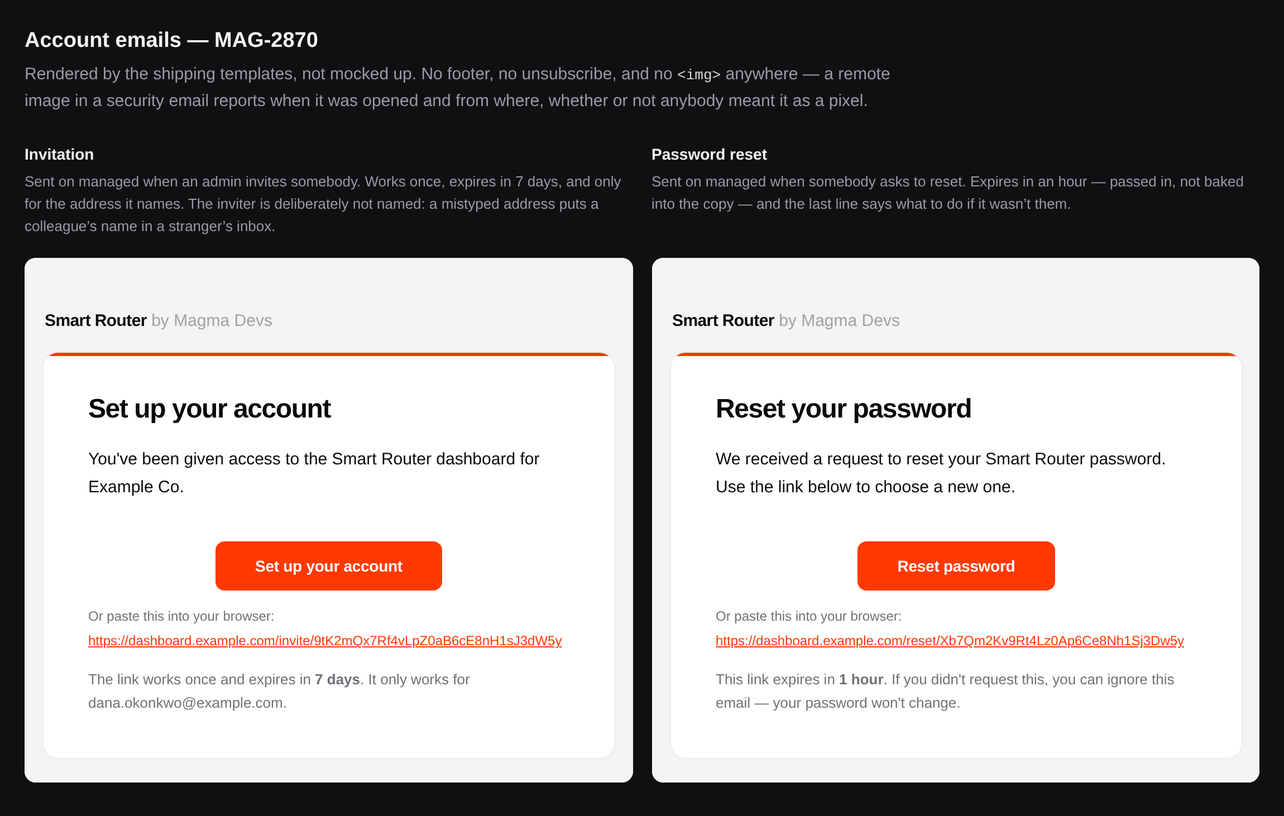
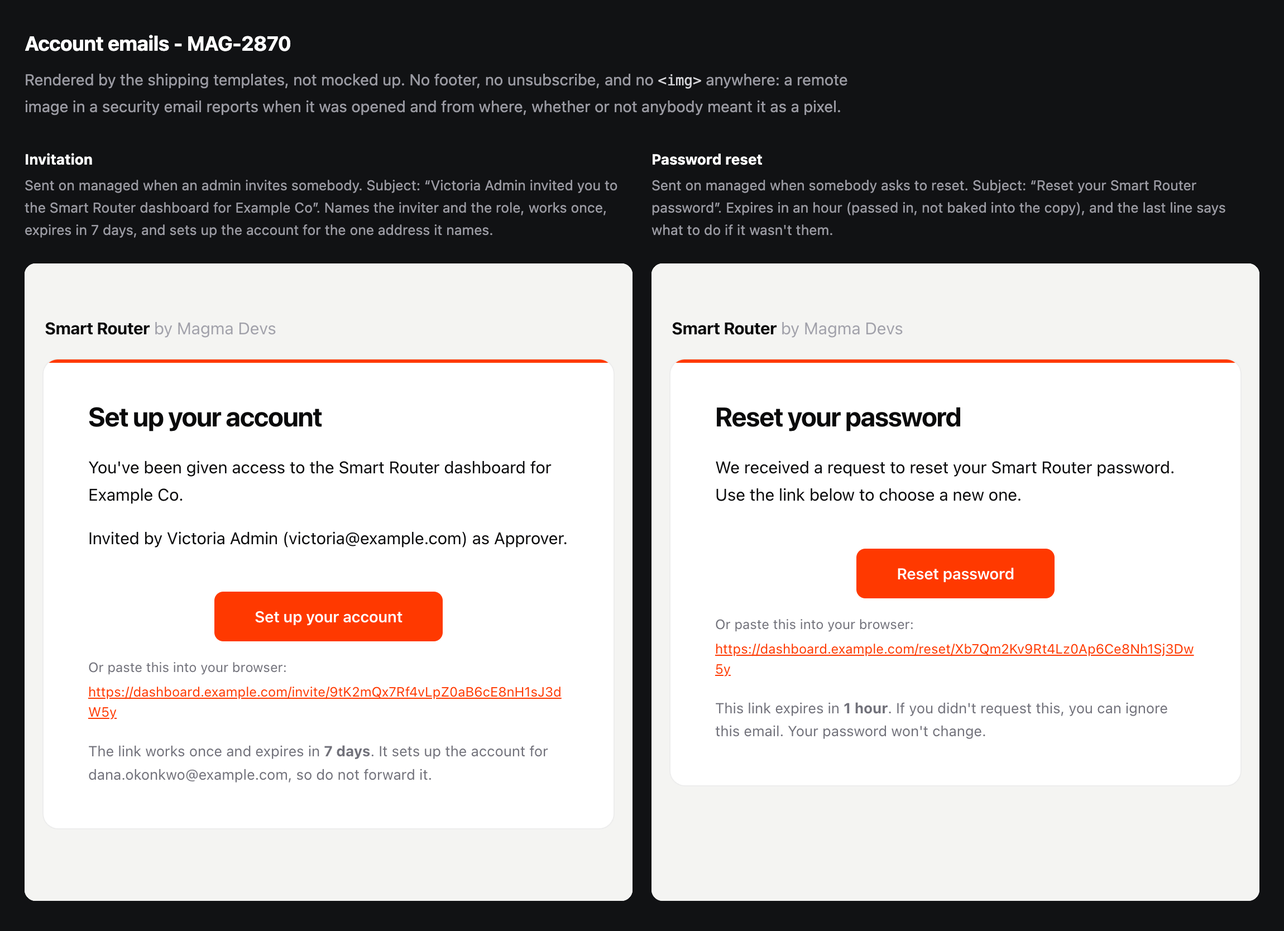
docs(accounts): describe the audit page, required 2FA and accounts on deployments (MAG-5351)
AUTH.md, MAG-2729-REQUIREMENTS.md, MAG-2729-MANUAL-CHECKS.md,
ACCOUNTS-DESIGN.md and README.md said there is no audit viewer, that 2FA
has not shipped and that nothing deployed runs with accounts on. They
now point at the Audit log page, say 2FA is required with accounts on
(the 2FA column reads Yes/No), and say the fleet's tenant template turns
accounts on for every new managed deployment. The up-auth commands carry
the TOTP and internal secrets the api needs to boot, the email rules and
quoted copy match the templates, and the account-emails screenshot is
re-rendered from them.

diff --git a/docs/AUTH.md b/docs/AUTH.md
@@ -87,6 +87,12 @@ The web needs this at **runtime**, not build time — `NEXT_PUBLIC_*` is baked
 into the bundle and one published image has to serve both shapes — so it
 comes through `GET /api/config` alongside `DASHBOARD_API_URL`.
 
+The Helm chart renders `AUTH_MODE` and `DEPLOYMENT_MODE` on both pods from
+its `dashboard.auth` block (`mode`, `deploymentMode`). The fleet's tenant template turns accounts on for
+every new managed deployment (`mode: enabled`, `deploymentMode: managed`),
+and with accounts on 2FA is required of everyone
+([Two-factor](#two-factor-totp)).
+
 ## First run (on-prem)
 
 A fresh install has no accounts, so there is nobody to sign in as. The
@@ -398,7 +404,7 @@ names both people.
 | `EMAIL_REPLY_TO` | A monitored inbox, so a reply to a reset reaches somebody |
 | `EMAIL_CONFIGURATION_SET` | Keeps each environment's bounce reputation separate on a shared SES identity |
 | `SES_ENDPOINT` | Points at a local SES mock for development |
-| `CUSTOMER_NAME` | Appears in the invitation subject — an invite lands somewhere that has never heard of us, and the customer's own name is what stops it reading as spam |
+| `CUSTOMER_NAME` | Names the dashboard in every email, and in the invitation's subject ("{inviter} invited you to the Smart Router dashboard for {customer}"): an invite lands somewhere that has never heard of us, and the customer's own name is what stops it reading as spam. The fleet sets it to the tenant's name |
 
 ### Seeing the mail in development
 
@@ -500,7 +506,7 @@ mail transport` or `email failed, not delivered`).
 development not in a log line either. A rendered invitation contains a live
 token.
 
-<img src="./assets/account-emails.png" alt="The two account emails side by side, rendered by the shipping templates. Left: the invitation, subject &quot;You've been added to Example Co on Smart Router&quot;, headed &quot;Set up your account&quot;, with a Set up your account button, the same link repeated as selectable text beneath it, and a line reading &quot;The link works once and expires in 7 days. It only works for dana.okonkwo@example.com.&quot; Right: the password reset, subject &quot;Reset your Smart Router password&quot;, with a Reset password button, the link again as text, and &quot;This link expires in 1 hour. If you didn't request this, you can ignore this email — your password won't change.&quot; Neither has a footer, an unsubscribe link, or any image." width="820">
+<img src="./assets/account-emails.png" alt="The two account emails side by side, rendered by the shipping templates. Left: the invitation, subject &quot;Victoria Admin invited you to the Smart Router dashboard for Example Co&quot;, headed &quot;Set up your account&quot;, with the line &quot;Invited by Victoria Admin (victoria@example.com) as Approver.&quot;, a Set up your account button, the same link repeated as selectable text beneath it, and &quot;The link works once and expires in 7 days. It sets up the account for dana.okonkwo@example.com, so do not forward it.&quot; Right: the password reset, subject &quot;Reset your Smart Router password&quot;, with a Reset password button, the link again as text, and &quot;This link expires in 1 hour. If you didn't request this, you can ignore this email. Your password won't change.&quot; Neither has a footer, an unsubscribe link, or any image." width="820">
 
 ### The rules the copy follows
 
@@ -514,20 +520,25 @@ From the ticket, and each has a test:
   and **no `<img>` at all**: a remote image in a security email reports when it
   was opened and from where, whether or not anybody meant it as a tracking
   pixel. The wordmark is set in text.
-- **The invitation does not name the inviter.** It goes to an address nobody has
-  verified, so a mistyped one puts a colleague's name and address in a
-  stranger's inbox.
+- **The invitation names who sent it**: by name in the subject, and with their
+  address and the role it grants, by its label, in the body ("Invited by
+  Victoria Admin (victoria@example.com) as Read-only."). A resend names the
+  admin who resent it. Its last line says the link sets up the account for the
+  one address it names, so it is not forwarded.
 - **The reset says what to do if it wasn't you**, as the last line.
 - **The password-changed notice carries no link at all** — no button, no reset
   link, no sign-in link. A takeover notice with a button is one an attacker can
   copy and bait somebody into pressing. It says what to do in words, and its
-  last line says it never contains a link, so a copy that has one gives itself
-  away.
+  last line is "We never put a link in this notice. If a copy has one, don't
+  click it.", so a copy that has one gives itself away.
 - **A time reads one way in every email**: `Nov 11, 2026, 14:05 UTC` — the
   dashboard's date and 24-hour clock, with the zone written out. The dashboard
   shows the reader's own zone, which the browser reports; an email has no
   browser and an account stores no zone, so it gives UTC, the zone of the
   audit log. `emailTime` (`services/email-time.ts`) writes every one.
+- **US English, "2FA" as the feature's name, and no long dash** (an em or en
+  dash) in any subject, plain text or HTML part: a pause is " - " or two
+  sentences. `email-copy.test.ts` renders every email and checks all three.
 
 
 ### The reset password page
@@ -761,8 +772,12 @@ make dev-auth
 # sign in at http://localhost:3000/login as admin@example.com / admin1234
 # (override any of them: ADMIN_EMAIL=you@example.com make dev-auth)
 
-# prod-style — no seeded admin (the seed is refused under NODE_ENV=production):
-AUTH_SECRET=$(openssl rand -base64 32) make up-auth
+# prod-style — no seeded admin (the seed is refused under NODE_ENV=production);
+# the api refuses to boot without the last two:
+export AUTH_SECRET=$(openssl rand -base64 32) \
+  TOTP_ENCRYPTION_KEY=$(openssl rand -base64 32) \
+  INTERNAL_AUTH_SECRET=$(openssl rand -base64 32)
+make up-auth
 # open /login → it redirects to /setup; the setup token is in
 # `docker compose logs api` (or set SETUP_TOKEN, 16+ characters)
 
@@ -929,11 +944,14 @@ against an unknown address answers the same `401` a wrong password does.
 
 **9. Export.** Team → Export CSV. This is the artifact an auditor asks for
 first, and it is the whole member list, not the page you are looking at.
-Its `two_factor` column reads `yes` or `no`; a `no` is the table's "Not set
-up".
+The 2FA column reads **Not set up** in the table when someone has no
+authenticator yet, and the CSV's `two_factor` column reads `yes` or `no`. The
+dashboard is shut to someone without one until they set it up
+([`TWO-FACTOR.md`](./TWO-FACTOR.md)).
 
-**10. The audit log.** Every step above wrote a row. There is no viewer yet
-(MAG-2770), so read them directly:
+**10. The audit log.** Every step above wrote a row. Open **Audit log** in
+the sidebar: newest first, a detail sheet per row, and **Export CSV**
+([`AUDIT.md`](./AUDIT.md)). Or read the table itself:
 
 ```bash
 docker exec smart-router-dashboard-dev-postgres-1 \
@@ -963,8 +981,8 @@ make recover CMD="promote-admin  --email you@example.com"
 
 Shell access is the authorisation and these hand out nothing new — what
 they add is a `host.recovery` row per run, naming the command and the
-operator, so a recovery shows up in the log afterwards. The viewer is
-MAG-2770's and is not on this branch, so read it the way step 10 does:
+operator, so a recovery shows up in the log afterwards: on the **Audit log**
+page, filtered to the `recovery` group, or in the table:
 
 ```sql
 select occurred_at, actor_name, note from audit_events
@@ -1091,7 +1109,7 @@ Two consequences:
 
 - **An edited migration is never re-applied.** The hash is recorded but
   unused, so changing an already-applied file is a no-op on any database
-  that ran it. Fine while nothing is deployed; not a thing to rely on later.
+  that ran it. A change to the schema is always a new migration.
 - **A migration inserted *below* the high-water mark is skipped**, on any
   database that is already migrated. This is the one that bites, because
   parallel branches produce it naturally: two tickets each add a migration,
@@ -1112,11 +1130,10 @@ that exists, and boot fails) or is silently skipped.
 docker compose -f docker-compose.dev.yml --profile auth down -v
 ```
 
-Only developer machines are affected: nothing deployed sets
-`AUTH_MODE=enabled`, so no deployment has a `users` table, let alone a
-migration history. CI is unaffected too — every suite builds its database
-from empty, where the high-water mark does not exist and entries apply in
-array order regardless of their timestamps.
+Only a database that ran a build from those branches is affected. CI is
+not: every suite builds its database from empty, where the high-water mark
+does not exist and entries apply in array order regardless of their
+timestamps.
 
 > **Never change the `when` of a migration a database may already hold.** It
 > is the obvious repair and it trades a silent skip for a hard failure: on a

diff --git a/docs/MAG-2729-REQUIREMENTS.md b/docs/MAG-2729-REQUIREMENTS.md
@@ -1,15 +1,14 @@
 # MAG-2729 — requirement coverage
 
 Every line of [MAG-2729](https://magmadevs.atlassian.net/browse/MAG-2729) ("Dashboard v2 (1/4) —
-Accounts and team") against what is on the branch, so the ticket can be checked off rather than
+Accounts and team") against what implements it, so the ticket can be checked off rather than
 taken on trust.
 
 | | |
 |---|---|
-| As of | 27 Sep 2026, `feat/MAG-2870-account-emails` (#147), rebased onto `main` after #121 and #122 merged |
 | Parent epic | [MAG-2686](https://magmadevs.atlassian.net/browse/MAG-2686) — Dashboard v2, config change + SOC 2 |
 | Design | [`ACCOUNTS-DESIGN.md`](./ACCOUNTS-DESIGN.md) (#109) · operator guide [`AUTH.md`](./AUTH.md) |
-| Acceptance | **11/11** of the checks on the ticket pass — [§4](#4-the-acceptance-checks) |
+| Acceptance | **11/11** of the checks on the ticket pass — [§4](#4-the-acceptance-checks), run at `8594841` ([§8](#8-how-this-was-verified)) |
 
 ## Verdict
 
@@ -20,17 +19,23 @@ sibling tickets.
 deployment shapes — 11/11 managed, 10/10 on-prem, where the eleventh is managed-only. [§4](#4-the-acceptance-checks)
 has the list and how each is exercised.
 
-**Managed-mode delivery has landed too.** It belongs to
+**Managed-mode delivery** belongs to
 [MAG-2870](https://magmadevs.atlassian.net/browse/MAG-2870) — "Account emails and the reset password
 page", carved out of this ticket deliberately, _"so the copy and the screen have one owner rather
-than being buried in the accounts ticket"_ — and that ticket is implemented in
-[#147](https://github.com/Magma-Devs/smart-router-dashboard/pull/147), on this branch. So the
-managed rows below are now green rather than deferred: invitations and resets are emailed, over SES.
+than being buried in the accounts ticket"_ — implemented in
+[#147](https://github.com/Magma-Devs/smart-router-dashboard/pull/147): invitations and resets are
+emailed, over SES.
 
-What remains belongs to three sibling tickets: the shared-login cutover ([MAG-3002](https://magmadevs.atlassian.net/browse/MAG-3002)), cancelling a
-removed person's pending config changes (MAG-2731 owns that table), and the audit log's own viewer,
-filtering and export (MAG-2770). This ticket emits into MAG-2770's writer; it does not own the
-reading side.
+**The audit log and 2FA are built, by their own tickets.** This ticket emits into MAG-2770's writer;
+the **Audit log** page reads it, with filters and a CSV export, and a pull API serves a security
+team's tooling ([`AUDIT.md`](./AUDIT.md)). 2FA is MAG-2730's and is required of everyone once
+accounts are on ([`TWO-FACTOR.md`](./TWO-FACTOR.md)), so the members table's 2FA column reads Yes
+or No. The fleet's tenant template turns accounts on for every new managed deployment
+([`AUTH.md`](./AUTH.md#deployment-modes)).
+
+What remains belongs to two sibling tickets: the shared-login cutover
+([MAG-3002](https://magmadevs.atlassian.net/browse/MAG-3002)) and cancelling a removed person's
+pending config changes (MAG-2731 owns that table).
 
 Three places where the code disagreed with the ticket were found and fixed on the branch — see
 [§7](#7-mismatches-found-and-fixed). The third arrived after the audit rather than during it:
@@ -120,7 +125,7 @@ Seven pull requests, stacked. `#115` is MAG-2770's writer, merged in because sli
 | An invite can only create the account it was issued for (replaced "redeemable only by the address it was sent to", 26 Aug 2026) | ✅ | **Structural**: the account is created with the invitation's address. A password redemption supplies no address. A Google or GitHub redemption supplies the provider's verified one, because those stay as ways in (§1); it must equal the invited address, or the route answers 403 and names the address to use |
 | Single-use; 7 days managed, 24 hours on-prem | ✅ | Exactly as specified |
 | Pending tab with sent and expiry dates; resend and revoke | ✅ | Resend mints a new token and kills the old link. Expiry needs no sweeper — the first read that observes it stamps the row, so `invite.expired` fires once |
-| Members table: name, email, role, 2FA, last active, joined | ✅ | 2FA renders `—`, not "No" — it is MAG-2730's, and "No" would be true today and wrong the day it ships |
+| Members table: name, email, role, 2FA, last active, joined | ✅ | 2FA reads Yes or No, from whether the person has set up an authenticator (MAG-2730); a No is red |
 | Change role, remove | ✅ | |
 | Removal is a state change, not a row deletion | ✅ | Sessions die immediately, the name stays in the log permanently, the address can be invited again |
 | Removal needs no approval; a dialog naming the person is enough | ✅ | |
@@ -129,7 +134,8 @@ Seven pull requests, stacked. `#115` is MAG-2770's writer, merged in because sli
 
 ### 3 · Audit log
 
-The log itself is MAG-2770. This ticket emits into it. All sixteen events are in the typed catalog
+The log itself is MAG-2770, read on the **Audit log** page ([`AUDIT.md`](./AUDIT.md)). This ticket
+emits into it. All sixteen events are in the typed catalog
 **and** fire from a call site — checked separately, because being catalogued does not mean being
 emitted. The last to arrive was `password.reset_requested`, which fires from the managed `POST
 /auth/password/forgot` that [MAG-2870](https://magmadevs.atlassian.net/browse/MAG-2870) turned on.
@@ -159,7 +165,7 @@ rename cannot rewrite history.
 | 7 | A removed person's sessions die, **pending requests are cancelled**, history stays, email re-invitable | ◐ three of four; cancellation is MAG-2731's |
 | 8 | Demoting someone takes effect on their current session | ✅ |
 | 9 | The member list shows role and last active, and exports | ✅ |
-| 10 | Every event is a row in the log, and the log filters and exports safely | ✅ emission; filtering and export are MAG-2770's |
+| 10 | Every event is a row in the log, and the log filters and exports safely | ✅ emission here; the **Audit log** page filters and exports it (MAG-2770) |
 
 ---
 
@@ -225,10 +231,8 @@ to `/login` and type — but a script can. It waits past the boundary now, and s
 | | State | Owner |
 |---|---|---|
 | Pending config changes cancelled on removal | `onMemberDeactivated` is a documented empty seam | MAG-2731 |
-| Shared login disabled at cutover | Not this repo. Per deployment, and blocked on this ticket merging — named accounts have to exist before the shared one can go | [MAG-3002](https://magmadevs.atlassian.net/browse/MAG-3002) |
+| Shared login disabled at cutover | Not this repo. Per deployment: named accounts have to exist before the shared one can go | [MAG-3002](https://magmadevs.atlassian.net/browse/MAG-3002) |
 | ~~Managed "Forgot password?" link on `/login`~~ | **Built.** `/forgot-password`, linked from the sign-in page; on-prem it says there is no mail server and points at an administrator | — |
-| Audit viewer, filtering, export | Out of scope by ticket text | MAG-2770 |
-| 2FA column populated | Out of scope by ticket text | MAG-2730 |
 | AWS/SES setup so managed can actually send | The code ships in MAG-2870; the verified domain, sandbox exit, DNS records and chart env do not. On-prem is unaffected — it sends nothing by design | [MAG-3003](https://magmadevs.atlassian.net/browse/MAG-3003) |
 
 ---
@@ -276,16 +280,14 @@ of an account takeover if the wrong person asked — which is also why the api r
 admin's address and device attached. There is no password field, and no endpoint that would accept
 one.
 
-### Cause 3 — sequencing. Four items another ticket must own.
+### Cause 3 — sequencing. Two items another ticket must own.
 
-Not oversights; the ticket hands most of them away in its own text.
+Not oversights: each needs something this repo does not hold.
 
 | | Why it cannot be done here |
 |---|---|
 | **Pending config changes cancelled on removal** | The ticket does ask for this, but MAG-2731 creates the change-request table — there is literally nothing to cancel yet. `onMemberDeactivated` is an empty function with a docblock saying so, so it lands in MAG-2731's path rather than being quietly dropped. **This is the handoff worth chasing**, because it is a requirement of *this* ticket that somebody else has to satisfy |
 | **Shared login disabled at cutover** | Not this repo. The chart change is ours, the customer-operated box is theirs |
-| **Audit viewer, filtering, export** | "The audit log moved out of this task into MAG-2770." We emit; they read |
-| **2FA column populated** | "Populated by task 3" (MAG-2730). The column renders `—` rather than "No", so it does not assert something that becomes false the day 2FA ships |
 
 ### The two "partial" marks, so they are not misread
 

diff --git a/docs/MAG-2729-MANUAL-CHECKS.md b/docs/MAG-2729-MANUAL-CHECKS.md
@@ -34,32 +34,31 @@ admin yet to invite anybody.
 | **Safari (or Firefox) private** | the invited person's *second* device, needed once, in check 8 |
 | **A terminal** | four checks cannot be done from a browser — see below |
 | **A second terminal tab** | optional, for watching `docker logs` |
+| **An authenticator app** | 2FA is required of everyone ([`TWO-FACTOR.md`](./TWO-FACTOR.md)): the invited person sets it up on accepting the invitation, and the administrator before their first invitation in check 2 |
 
 **Two incognito windows are not two sessions.** Chrome shares one incognito
 profile across every window, so signing in twice there gives you one session,
 not two. That is why check 8 needs a genuinely different browser.
 
-### The three checks that need a terminal
+### The four checks that need a terminal
 
-Not a shortcoming of the runbook — all three are asking about things the UI
-deliberately does not offer. **Check 8 used to be here and no longer is**: the
-sign-in page now has a *Forgot your password?* link, so the whole reset flow is
-clickable.
+Not a shortcoming of the runbook: all four are asking about things the UI
+deliberately does not offer. Check 8 needs none, because the sign-in page has a
+*Forgot your password?* link and the whole reset flow is clickable.
 
 | Check | Why |
 |---|---|
 | 4 (part 2) | Submitting a rogue address alongside a token. No form lets you do this, which is the point |
 | 5 | "Refused **when attempted directly**" is a statement about the api, not the UI. A hidden button proves nothing |
 | 7 (part 2) | The buttons are absent on your own row, so proving the *server* refuses needs a direct call |
-| 11 | The audit log has no viewer yet — that is MAG-2770 |
+| 11 (part 2) | The search for leaked secrets reads every column of both audit tables at once. The **Audit log** page shows the rows; a search across all of them is a database query |
 
 ---
 
 ## Setup
 
 ```bash
-cd ~/go/smart-router-dashboard
-git checkout feat/MAG-2870-account-emails    # every MAG-2729 slice + MAG-2870
+git checkout main
 make accounts-reset && make accounts-managed
 ```
 
@@ -182,17 +181,18 @@ was refused, the account created is an admin, and `/setup` is now closed.
 **Open the inbox** at http://localhost:8005.
 
 4. The message is there. Check it against what the ticket asks for:
-   - subject **"You've been added to Example Co on Smart Router"** — the customer's
-     name, because this lands somewhere that has never heard of us
+   - subject **"{your name} invited you to the Smart Router dashboard for
+     Example Co"**: who sent it and the customer's name, because this lands
+     somewhere that has never heard of us
+   - *"Invited by {your name} ({your address}) as Approver."*, the role by the
+     label the Team page uses
    - a **Set up your account** button
    - the same link again **as plain text** underneath, because mail clients
      strip buttons and people forward these
-   - *"The link works once and expires in 7 days. It only works for
-     dana.okonkwo@example.com."*
-   - **no unsubscribe, no footer, no images** — a remote image in a security
+   - *"The link works once and expires in 7 days. It sets up the account for
+     dana.okonkwo@example.com, so do not forward it."*
+   - **no unsubscribe, no footer, no images**: a remote image in a security
      email reports when it was opened and from where
-   - **the inviter is not named.** An invite goes to an address nobody has
-     verified, so a mistyped one would put your name in a stranger's inbox
 
 **Back in the admin window** → **Team** → **Members**.
 
@@ -544,7 +544,7 @@ was re-invitable.
 
 ## 11 · The log has a row for each of the above
 
-There is no viewer yet — that is MAG-2770 — so read the table directly.
+**Admin window** → **Audit log** in the sidebar. Or read the table directly:
 
 ```bash
 docker exec smart-router-dashboard-dev-postgres-1 psql -U sr -d sr_dashboard \
@@ -553,7 +553,7 @@ docker exec smart-router-dashboard-dev-postgres-1 psql -U sr -d sr_dashboard \
 ```
 
 Look for a row from each thing you did, **including a failed sign-in** — if you
-have not produced one yet, mistype your password once and re-run:
+have not produced one yet, mistype your password once and look again:
 
 ```
 setup.completed            member.invited           member.role_changed
@@ -562,7 +562,9 @@ signin.failed              invite.revoked           password.reset_requested
                                                     password.reset_completed
 ```
 
-Role changes carry a real before/after, not a sentence:
+Role changes carry a real before/after, not a sentence: open a
+`member.role_changed` row on the page and its detail sheet lists the field with
+its old and new value. In the terminal:
 
 ```bash
 docker exec smart-router-dashboard-dev-postgres-1 psql -U sr -d sr_dashboard \

diff --git a/CLAUDE.md b/CLAUDE.md
@@ -1130,7 +1130,7 @@ Auth (only read when `AUTH_MODE=enabled`; the metrics path never touches the DB)
 | `TOTP_ENCRYPTION_KEY` | (unset) | **Required.** 32 bytes (base64 or hex) encrypting every enrolled TOTP secret at rest. The api refuses to boot without it: the 2FA gate shuts the dashboard to anyone unenrolled, enrolment is the only way through, and enrolment needs this key — so missing it locks out every account at once. Deliberately NOT derived from `AUTH_SECRET`, whose rotation is routine and would otherwise invalidate every enrolled phone. `openssl rand -base64 32` |
 | `TOTP_ISSUER` | `Smart Router` | What an authenticator app shows as the issuer. Override it so somebody administering two dashboards can tell the entries apart |
 | `PUBLIC_WEB_ORIGIN` | (unset) | browser-facing origin of the web app, used to build invitation and password-reset links. Routes that need it fail loudly when it is unset rather than guessing a host — `POST /api/team/invites` 500s. Both compose files default it to the web's `AUTH_URL` |
-| `CUSTOMER_NAME` | `Smart Router` | Who the deployment belongs to, as it appears in the invitation subject ("You've been added to **{customer}** on Smart Router") |
+| `CUSTOMER_NAME` | `Smart Router` | Who the deployment belongs to, as the emails name the dashboard; the invitation subject is "{inviter} invited you to the Smart Router dashboard for **{customer}**". The fleet sets the tenant's name |
 | `AWS_REGION` | (unset) | **Enables email.** Unset ⇒ nothing is sent; a `warn` line names the recipient, and only under `NODE_ENV=development` carries the body (it holds a live link). On-prem that is correct. On managed it means the admin carries invitation links, and self-serve reset answers 404 rather than issue a link nobody receives |
 | `AWS_ACCESS_KEY_ID` / `AWS_SECRET_ACCESS_KEY` | (unset) | Optional. Both set ⇒ the SES client signs with this pair: the fleet's managed deployments get one per tenant from a Secret (the chart's `mail.accessKeySecret`), scoped to sending as the no-reply address through that tenant's configuration set. Absent ⇒ the SDK resolves credentials from the environment (IRSA / instance role). `ses-credentials.test.ts` pins that the pair alone signs the send |
 | `EMAIL_FROM` | `Smart Router <noreply@smart-router.local>` | Sender. An unmonitored no-reply |

diff --git a/README.md b/README.md
@@ -117,10 +117,13 @@ api checks. Without them everything works, only slower on long windows.
 Two modes via `AUTH_MODE` (full guide: [`docs/AUTH.md`](./docs/AUTH.md)):
 
 - **`disabled`** (default) — no login, no database. The dashboard opens straight on Metrics. For private/self-hosted deployments.
-- **`enabled`** — Auth.js v5 sign-in backed by Postgres (Drizzle), bcrypt credentials + optional Google/GitHub (each button appears only when its client id/secret pair is set), HS256 JWT shared between web and api. The first admin is created at `/setup` with the installer's setup token; everyone after that is invited.
+- **`enabled`** — Auth.js v5 sign-in backed by Postgres (Drizzle), bcrypt credentials + optional Google/GitHub (each button appears only when its client id/secret pair is set), HS256 JWT shared between web and api. The first admin is created at `/setup` with the installer's setup token; everyone after that is invited. Everyone sets up 2FA ([`docs/TWO-FACTOR.md`](./docs/TWO-FACTOR.md)), and every sign-in and account change is a row on the **Audit log** page ([`docs/AUDIT.md`](./docs/AUDIT.md)).
 
 ```bash
-AUTH_SECRET=$(openssl rand -base64 32) make up-auth
+export AUTH_SECRET=$(openssl rand -base64 32) \
+  TOTP_ENCRYPTION_KEY=$(openssl rand -base64 32) \
+  INTERNAL_AUTH_SECRET=$(openssl rand -base64 32)
+make up-auth
 # open :3000 — a fresh install redirects to /setup
 # setup token: the SETUP_TOKEN you set, or: docker compose logs api | grep -iE 'setup_?token'
 # (make dev-auth seeds a development admin instead — see docs/AUTH.md)

diff --git a/docs/ACCOUNTS-DESIGN.md b/docs/ACCOUNTS-DESIGN.md
@@ -30,16 +30,16 @@ those decisions, not the operator reference.
 | 11, 16 | 2FA column renders `—` | Populated: two-factor sign-in is required ([`TWO-FACTOR.md`](TWO-FACTOR.md)), Google and GitHub sign-in ask for the code too, and an admin can reset a member's 2FA |
 | 4 | One migration, `0001_accounts.sql` | `0001_accounts`, `0002_invitations`, `0003_password_lifecycle`, then `0005_magma_account`; 2FA and audit add their own |
 | 14 | Test harness to be decided | pglite: real in-process Postgres, no Docker |
-| 13.3 | Remove the shared credential from the chart | The chart no longer carries one; its `dashboard.auth` block turns accounts on per deployment (§13.3) |
+| 13.3 | Remove the shared credential from the chart | The chart carries none; its `dashboard.auth` block turns accounts on per deployment (§13.3), and the fleet's tenant template turns them on for every new managed deployment ([`AUTH.md`](AUTH.md#deployment-modes)) |
 
 ---
 
 ## 1. Goals and non-goals
 
 A customer will not make real configuration changes through the dashboard until it meets
-their SOC 2 requirements. Today every customer deployment shares one username and
-password. This is not "add roles to the login we have" — it is the account system,
-and every other task in the epic needs a named actor to attribute rows to.
+their SOC 2 requirements, and a login everybody at a customer shares does not. This is not
+"add roles to a shared login" — it is the account system, and every other task in the epic
+needs a named actor to attribute rows to.
 
 ### Goals
 
